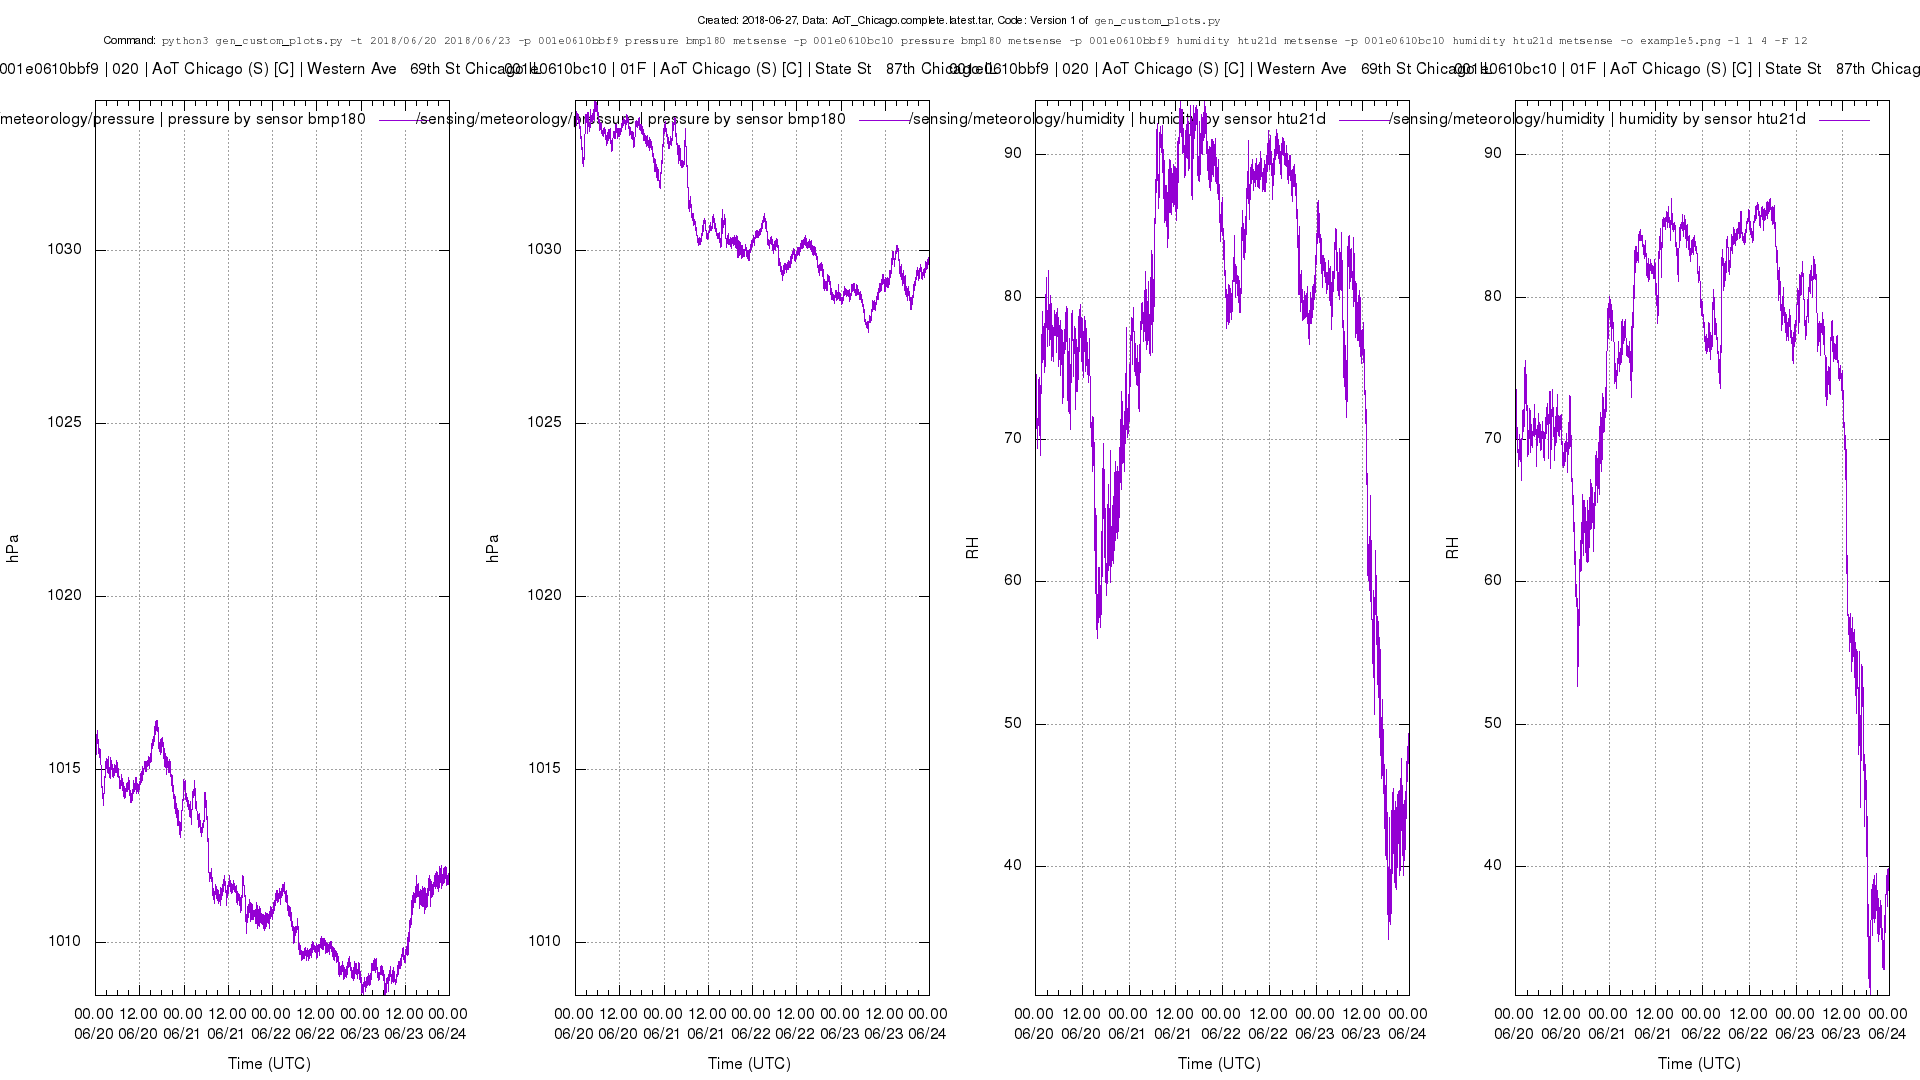
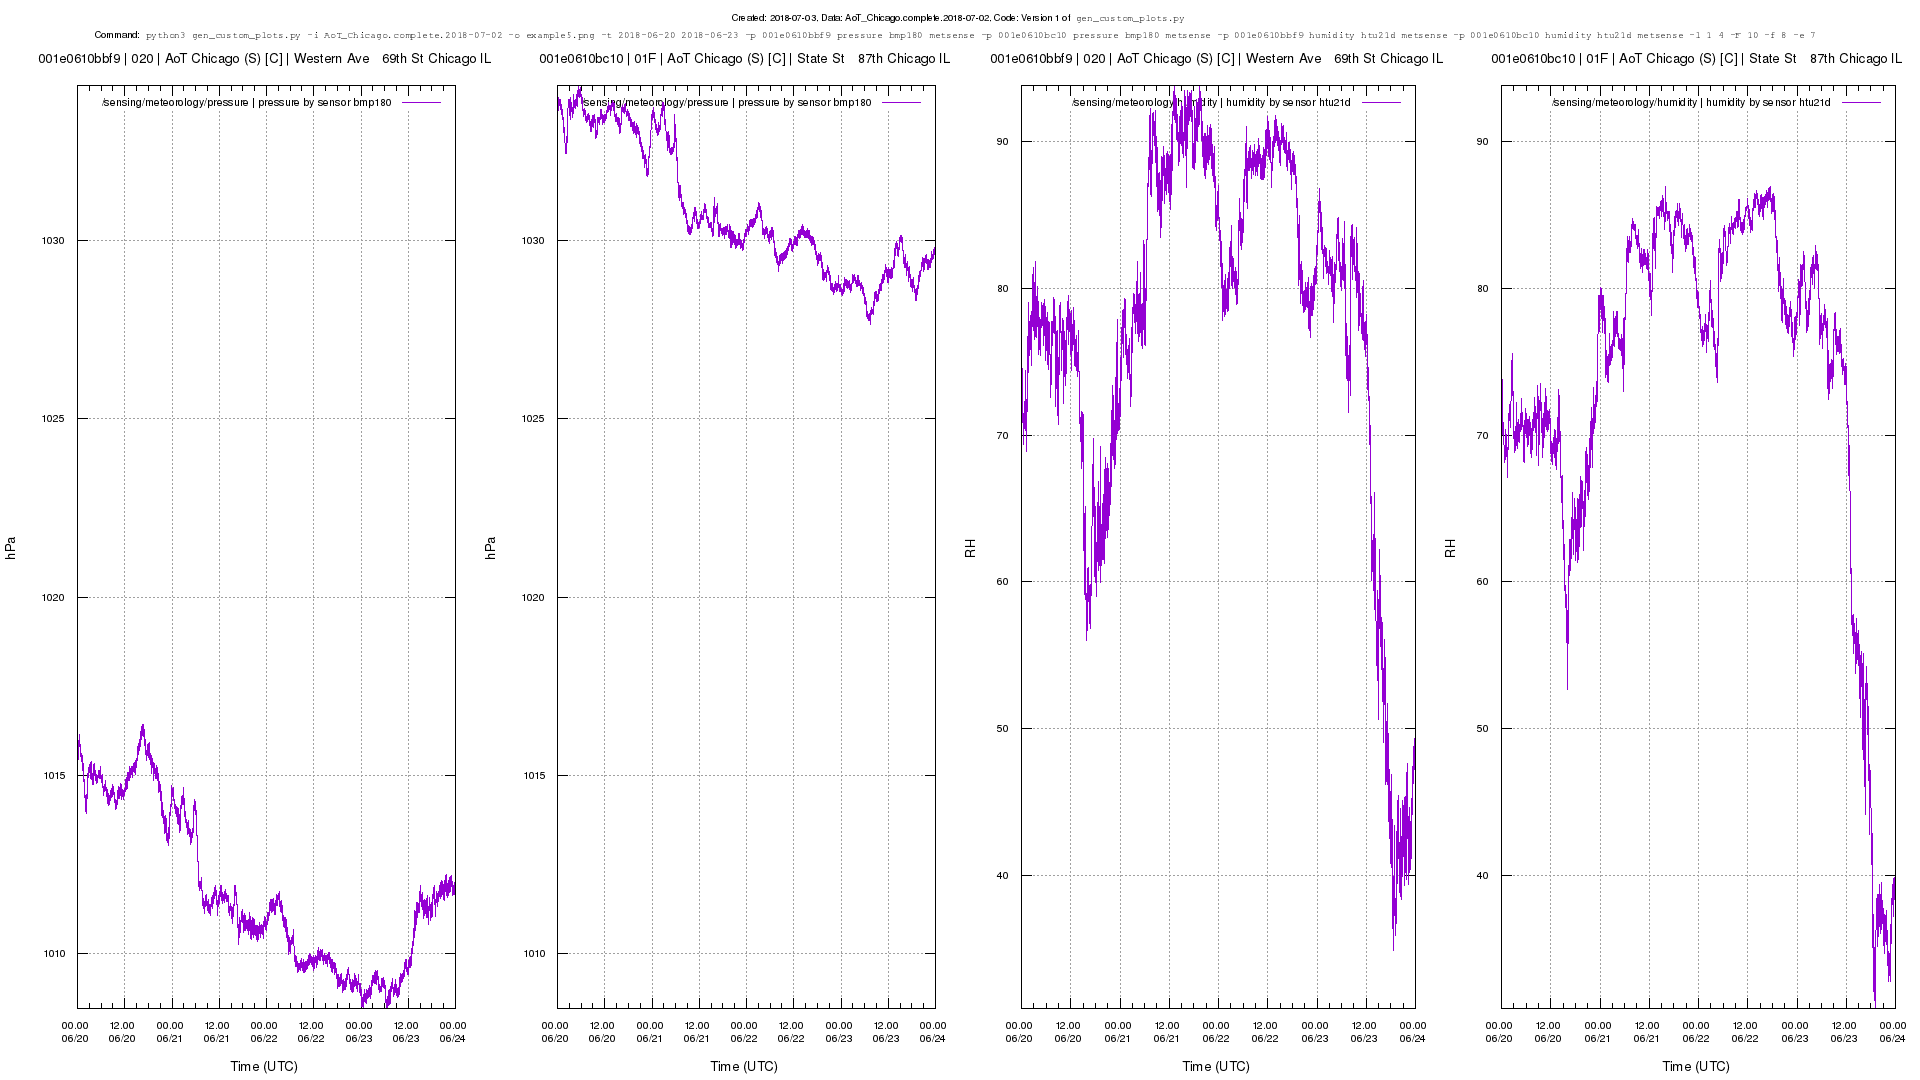
added examples to README

diff --git a/plot-data/README.md b/plot-data/README.md
@@ -7,16 +7,34 @@ This tool generates plots based on command line input. Given a directory with da
 ## Requirements
 
 This tool depends on **python3**, **numpy** and **pandas** packages for python3, as well as **gnuplot**. Please make sure they are installed in the system where they are intended to be used.  
-The bash shell scripts this tool uses require a Linux or Mac OS X environment to run.
+The bash shell scripts this tool uses require a Linux or Mac OS X environment to run.  
+Plotting also requires that the file `data.csv` has the following columns:  
+	* `timestamp`
+	* `node_id`
+	* `subsystem`
+	* `sensor`
+	* `paramater`
+	* One of:
+		* `value_hrf`
+		* `value_hrf_average`
+		* `value_hrf_moving_average`
 
 ## How to Use
 
 To retrieve data, go to https://github.com/waggle-sensor/waggle/tree/master/data, download your desired data set, and follow the instructions to decompress the data.  
+To get the scripts, clone this repository from `https://github.com/waggle-sensor/data-tools.git`.  
+In order to run the scripts, use the command line to navigate to the `plot-data` directory within the repository.  
 To generate a simple plot run `python3 gen_custom_plots.py -i data_directory_path -t start_date end_date -p node_id parameter sensor subsystem`  
 `data_directory_path` is the path to the directory created when untaring the archive, or any other directory containing the required files, listed above.  
 `start_date` and `end_date` are dates in the format YYYY-MM-DD. Data is plotted from 00:00:00 on the start date to 23:59:59 on the end date.  
 `node_id` is the id of the node you want to plot data from. A list of nodes can be found in the `nodes.csv` file included with the datasets.
-`parameter`, `sensor` and `subsystem` specify exactly what data you want from the node. A list of these can be found in the `sensors.csv` file included with the datasets.
+`parameter`, `sensor` and `subsystem` specify exactly what data you want from the node. A list of these can be found in the `sensors.csv` file included with the datasets.  
+
+
+For example: `python3 gen_custom_plots.py -i AoT_Chicago.complete.2018-07-02/ -t 2018-06-23 2018-06-23 -p 001e0610ba46 temperature bmp180 metsense`  
+This command would generate a plot containing temperature data from the sensor bmp180 in the subsystem metsense for the node 001e0610ba46 from 00:00:00 June 23, 2018 to 23:59:59 June 23, 2018 using the AoT Chicago complete dataset from July 2, 2018.
+The generated plot looks like this:
+<img src="https://raw.githubusercontent.com/waggle-sensor/data-tools/master/plot-data/examples/example.png">
 
 ## Documentation
 
@@ -26,7 +44,7 @@ https://github.com/waggle-sensor/waggle/tree/master/data contains a list of data
 
 ### Plot Generation
 
-`gen_custom_plots.py` extracts the specified data from the files created by `fileMaker.sh` and combines the data into plottable datasets. Then the data is plotted as specified by command line arguments. The data extracted each time the tool is run is stored in daily slices so that it does not need to be extracted again, because extracting the data is very time consuming. If data is already extracted for a given plot, the files will just be combined into a final plottable dataset. If only some of the specified data is already extracted, the rest of the data will be extracted, skipping over the data that already exists.
+`gen_custom_plots.py` extracts the specified data from `data.csv` in the data directory and combines the data into plottable datasets. Then the data is plotted as specified by command line arguments. The data extracted each time the tool is run is stored in daily slices in a folder called `tmp` in the data directory so that it does not need to be extracted again, because extracting the data is very time consuming. If data is already extracted for a given plot, the files will just be combined into a final plottable dataset. If only some of the specified data is already extracted, the rest of the data will be extracted, skipping over the data that already exists.
 
 #### Command Line Arguments
 
@@ -129,13 +147,27 @@ optional arguments:
   -h, --help            show this help message and exit
 ```
 
+#### Examples
+
 ##### Simple Plots
 
-Example 1: Plot temperature data from sensor bmp180, subsystem metsense, node 001e0610ba46, from 2018-06-20 to 2018-06-23. 
-`python3 gen_custom_plots.py -t 2018/06/20 2018/06/23 -p 001e0610ba46 temperature bmp180 metsense`  
+###### Example 1
+Plot temperature data from sensor bmp180, subsystem metsense, node 001e0610ba46, from 2018-06-20 to 2018-06-23 using data from the AoT Chicago complete dataset.  
+`python3 gen_custom_plots.py -i AoT_Chicago.complete.2018-07-02 -t 2018-06-20 2018-06-23 -p 001e0610ba46 temperature bmp180 metsense`
 Will generate terminal output:  
 ```
 Extracting data for all dates in time frame...
+Extracting data for 2018/06/17...
+Extracting data for node 001e0610ba46 on 2018/06/17...
+Extracting temperature data from node 001e0610ba46...
+[WARNING] No temperature data from sensor bmp180 in subsystem metsense for node 001e0610ba46 on 2018/06/17 exists
+Extracting data for 2018/06/18...
+Extracting data for node 001e0610ba46 on 2018/06/18...
+Extracting temperature data from node 001e0610ba46...
+Extracting data for 2018/06/19...
+Extracting data for node 001e0610ba46 on 2018/06/19...
+Extracting temperature data from node 001e0610ba46...
+Extracting data for 2018/06/20...
 Extracting data for node 001e0610ba46 on 2018/06/20...
 Extracting temperature data from node 001e0610ba46...
 Extracting data for 2018/06/21...
@@ -144,44 +176,87 @@ Extracting temperature data from node 001e0610ba46...
 Extracting data for 2018/06/22...
 Extracting data for node 001e0610ba46 on 2018/06/22...
 Extracting temperature data from node 001e0610ba46...
+Extracting data for 2018/06/23...
 Extracting data for node 001e0610ba46 on 2018/06/23...
 Extracting temperature data from node 001e0610ba46...
 Combining data for 001e0610ba46 temperature bmp180 metsense
 Plotting data to ./plots/output.png
 ```  
+The warning that no data exists for a certain date lets you know why the plot might not have certain data points.
 And generate the following plot:  
-![output.png](https://github.com/waggle-sensor/summer2018/tree/master/dawnkaski/custom_plots/examples/output.png)  
-<img src="https://raw.githubusercontent.com/waggle-sensor/summer2018/master/dawnkaski/custom_plots/examples/output.png?token=AUW0UvvYalBBgwjTQBNj6FSa1vF0Fpnmks5bPT9BwA%3D%3D">
+<img src="https://raw.githubusercontent.com/waggle-sensor/data-tools/master/plot-data/examples/output.png">
 
-Example 2: Plot temperature data from sensor bmp180, subsystem metsense, node 001e0610ba46 and node 001e0610ba8f, from 2018-06-20 to 2018-06-23 to example2.png.
+######Example 2
+Plot temperature data from sensor bmp180, subsystem metsense, node 001e0610ba46 and the ontology /sensing/meteorology/temperature for node 001e0610ba8f, from 2018-06-20 to 2018-06-23 to example2.png using data from from the AoT Chicago complete dataset.
 The command to generate this plot:  
-`python3 gen_custom_plots.py -t 2018/06/20 2018/06/23 -p 001e0610ba46 temperature bmp180 metsense -p 001e0610ba8f temperature bmp180 metsense -o example2.png`  
+`python3 gen_custom_plots.py -i AoT_Chicago.complete.2018-07-02 -o example2.png -t 2018-06-20 2018-06-23 -p 001e0610ba46 temperature bmp180 metsense -n 001e0610ba8f /sensing/meteorology/temperature -e 10`  
 Will generate terminal output:  
 ```
-Extracting data for node 001e0610ba8f on 2018/06/20...
+Extracting temperature data from node 001e0610ba46...
+[WARNING] No temperature data from sensor bmp180 in subsystem metsense for node 001e0610ba46 on 2018/06/17 exists
 Extracting temperature data from node 001e0610ba8f...
-Extracting data for node 001e0610ba8f on 2018/06/21...
+[WARNING] No temperature data from sensor bmp180 in subsystem metsense for node 001e0610ba8f on 2018/06/17 exists
 Extracting temperature data from node 001e0610ba8f...
-Extracting data for node 001e0610ba8f on 2018/06/22...
+[WARNING] No temperature data from sensor htu21d in subsystem metsense for node 001e0610ba8f on 2018/06/17 exists
 Extracting temperature data from node 001e0610ba8f...
-Extracting data for node 001e0610ba8f on 2018/06/23...
+[WARNING] No temperature data from sensor pr103j2 in subsystem metsense for node 001e0610ba8f on 2018/06/17 exists
+Extracting temperature data from node 001e0610ba8f...
+[WARNING] No temperature data from sensor tmp112 in subsystem metsense for node 001e0610ba8f on 2018/06/17 exists
+Extracting temperature data from node 001e0610ba8f...
+[WARNING] No temperature data from sensor tsys01 in subsystem metsense for node 001e0610ba8f on 2018/06/17 exists
+Extracting temperature data from node 001e0610ba8f...
+Extracting temperature data from node 001e0610ba8f...
+Extracting temperature data from node 001e0610ba8f...
+Extracting temperature data from node 001e0610ba8f...
+Extracting temperature data from node 001e0610ba8f...
+Extracting temperature data from node 001e0610ba8f...
+Extracting temperature data from node 001e0610ba8f...
+Extracting temperature data from node 001e0610ba8f...
+Extracting temperature data from node 001e0610ba8f...
+Extracting temperature data from node 001e0610ba8f...
+Extracting temperature data from node 001e0610ba8f...
+Extracting temperature data from node 001e0610ba8f...
+Extracting temperature data from node 001e0610ba8f...
+Extracting temperature data from node 001e0610ba8f...
+Extracting temperature data from node 001e0610ba8f...
+Extracting temperature data from node 001e0610ba8f...
+Extracting temperature data from node 001e0610ba8f...
+Extracting temperature data from node 001e0610ba8f...
+Extracting temperature data from node 001e0610ba8f...
+Extracting temperature data from node 001e0610ba8f...
+Extracting temperature data from node 001e0610ba8f...
+Extracting temperature data from node 001e0610ba8f...
+Extracting temperature data from node 001e0610ba8f...
+Extracting temperature data from node 001e0610ba8f...
+Extracting temperature data from node 001e0610ba8f...
+Extracting temperature data from node 001e0610ba8f...
+Extracting temperature data from node 001e0610ba8f...
+Extracting temperature data from node 001e0610ba8f...
+Extracting temperature data from node 001e0610ba8f...
 Extracting temperature data from node 001e0610ba8f...
 Combining data for 001e0610ba46 temperature bmp180 metsense
 Combining data for 001e0610ba8f temperature bmp180 metsense
+Combining data for 001e0610ba8f temperature htu21d metsense
+Combining data for 001e0610ba8f temperature pr103j2 metsense
+Combining data for 001e0610ba8f temperature tmp112 metsense
+Combining data for 001e0610ba8f temperature tsys01 metsense
 Plotting data to ./plots/example2.png
 ```
+The `-e 10` option was need because otherwise the text for the provenance was too long for the image.  
 The data for node 001e0610ba46 is not extracted because it was stored from when the plot in Example 1 was generated.  
+
+
 And generate the following plot:  
-![example2.png](https://github.com/waggle-sensor/summer2018/tree/master/dawnkaski/custom_plots/examples/example2.png)  
-<img src="https://raw.githubusercontent.com/waggle-sensor/summer2018/master/dawnkaski/custom_plots/examples/example2.png?token=AUW0Ur0XhNAzABN0xcQKDru_vkjuiw14ks5bPUBNwA%3D%3D">
+<img src="https://raw.githubusercontent.com/waggle-sensor/data-tools/master/plot-data/examples/example2.png">
 
 ##### Using Plot Settings Arguments
 
-Example 3: Plot pressure from sensor bmp180 subsystem metsense for node 001e0610bbf9 and 001e0610bc10 and humidity for sensor htu21d subsystem metsense for node 001e0610bbf9 and 001e0610bc10 from 2018-06-20 to 2018-06-23 to example3.png overlaid in one plot.  
+######Example 3
+Plot pressure from sensor bmp180 subsystem metsense for node 001e0610bbf9 and 001e0610bc10 and humidity for sensor htu21d subsystem metsense for node 001e0610bbf9 and 001e0610bc10 from 2018-06-20 to 2018-06-23 to example3.png overlaid in one plot.  
 The command to generate this plot:  
-`python3 gen_custom_plots.py -t 2018/06/20 2018/06/23 -p 001e0610bbf9 pressure bmp180 metsense -p 001e0610bc10 pressure bmp180 metsense -p 001e0610bbf9 humidity htu21d metsense -p  001e0610bc10 humidity htu21d metsense -o example3.png -v`  
+`python3 gen_custom_plots.py -i AoT_Chicago.complete.2018-07-02 -o example3.png -t 2018-06-20 2018-06-23 -p 001e0610bbf9 pressure bmp180 metsense -p 001e0610bc10 pressure bmp180 metsense -p 001e0610bbf9 humidity htu21d metsense -p  001e0610bc10 humidity htu21d metsense -v -e 8`  
 or  
-`python3 gen_custom_plots.py -t 2018/06/20 2018/06/23 -p 001e0610bbf9 pressure bmp180 metsense -p 001e0610bc10 pressure bmp180 metsense -p 001e0610bbf9 humidity htu21d metsense -p  001e0610bc10 humidity htu21d metsense -o example3.png`  
+`python3 gen_custom_plots.py -i AoT_Chicago.complete.2018-07-02 -o example3.png -t 2018-06-20 2018-06-23 -p 001e0610bbf9 pressure bmp180 metsense -p 001e0610bc10 pressure bmp180 metsense -p 001e0610bbf9 humidity htu21d metsense -p  001e0610bc10 humidity htu21d metsense -e 8`  
 Either command will work because the tool defaults to overlaying the data.  
 Will generate terminal output:  
 ```
@@ -203,38 +278,28 @@ Extracting humidity data from node 001e0610bbf9...
 Extracting data for node 001e0610bc10 on 2018/06/22...
 Extracting pressure data from node 001e0610bc10...
 Extracting humidity data from node 001e0610bc10...
+Extracting data for node 001e0610bbf9 on 2018/06/23...
 Extracting pressure data from node 001e0610bbf9...
 Extracting humidity data from node 001e0610bbf9...
+Extracting data for node 001e0610bc10 on 2018/06/23...
 Extracting pressure data from node 001e0610bc10...
 Extracting humidity data from node 001e0610bc10...
 Combining data for 001e0610bbf9 pressure bmp180 metsense
 Combining data for 001e0610bbf9 humidity htu21d metsense
 Combining data for 001e0610bc10 pressure bmp180 metsense
 Combining data for 001e0610bc10 humidity htu21d metsense
-Plotting data to ./plots/output.png
+IT WORKS
+Plotting data to ./plots/example3.png
 ```
+Again, the -e option is used so that the command fits in the image.  
 And generate the following plot:  
-![example3.png](https://github.com/waggle-sensor/summer2018/tree/master/dawnkaski/custom_plots/examples/example3.png)  
-<img src="https://raw.githubusercontent.com/waggle-sensor/summer2018/master/dawnkaski/custom_plots/examples/example3.png?token=AUW0UvJfT41l8Vs6f3DyZDuKjgq6aS8Oks5bPUYUwA%3D%3D">
+<img src="https://raw.githubusercontent.com/waggle-sensor/data-tools/master/plot-data/examples/example3.png">
 
-The command for this plot does not quite fit on the plot, so we can change the size of the plot title to make it fit using the `-F` option:  
-`python3 gen_custom_plots.py -t 2018/06/20 2018/06/23 -p 001e0610bbf9 pressure bmp180 metsense -p 001e0610bc10 pressure bmp180 metsense -p 001e0610bbf9 humidity htu21d metsense -p  001e0610bc10 humidity htu21d metsense -o example3-smalltitle.png -v -F 12`  
-Will generate terminal output:  
-```
-Combining data for 001e0610bbf9 pressure bmp180 metsense
-Combining data for 001e0610bbf9 humidity htu21d metsense
-Combining data for 001e0610bc10 pressure bmp180 metsense
-Combining data for 001e0610bc10 humidity htu21d metsense
-Plotting data to ./plots/example3-smalltitle.png
-```
-And generate the following plot:  
-![example3-smalltitle.png](https://github.com/waggle-sensor/summer2018/tree/master/dawnkaski/custom_plots/examples/example3-smalltitle.png)
-<img src="https://raw.githubusercontent.com/waggle-sensor/summer2018/master/dawnkaski/custom_plots/examples/example3-smalltitle.png?token=AUW0Urm9ZYgR16hVwrUOOQpAwx1RCW6nks5bPUZgwA%3D%3D">
 
 Example 4: Plot pressure from sensor bmp180 subsystem metsense for node 001e0610bbf9 and 001e0610bc10 and humidity for sensor htu21d subsystem metsense for node 001e0610bbf9 and 001e0610bc10 from 2018-06-20 to 2018-06-23 to example3.png laid out in a 2 by 2 grid.  
 The command to generate this plot:  
-`python3 gen_custom_plots.py -t 2018/06/20 2018/06/23 -p 001e0610bbf9 pressure bmp180 metsense -p 001e0610bc10 pressure bmp180 metsense -p 001e0610bbf9 humidity htu21d metsense -p  001e0610bc10 humidity htu21d metsense -o example4.png -l 2 2 -F 12`  
-The `-F` option is used here again because the command is similar in length to example 3, so we want it to fit the first time.
+`python3 gen_custom_plots.py -i AoT_Chicago.complete.2018-07-02 -o example3.png -t 2018-06-20 2018-06-23 -p 001e0610bbf9 pressure bmp180 metsense -p 001e0610bc10 pressure bmp180 metsense -p 001e0610bbf9 humidity htu21d metsense -p  001e0610bc10 humidity htu21d metsense -o example4.png -l 2 2 -F 12 -e 8`  
+The `-F` option is used here to make the titles look nicer and not take up so much room to leave more space for the plots.  
 Will generate terminal output:  
 ```
 Combining data for 001e0610bbf9 pressure bmp180 metsense
@@ -244,13 +309,12 @@ Combining data for 001e0610bc10 humidity htu21d metsense
 Plotting data to ./plots/example4.png
 ```
 And generate the following plot:  
-![example4.png](https://github.com/waggle-sensor/summer2018/tree/master/dawnkaski/custom_plots/examples/example4.png)  
-<img src="https://raw.githubusercontent.com/waggle-sensor/summer2018/master/dawnkaski/custom_plots/examples/example4.png?token=AUW0UkmJmuJjMsSWv0xVmxiUMShsVQvcks5bPUgxwA%3D%3D">
+<img src="https://raw.githubusercontent.com/waggle-sensor/data-tools/master/plot-data/examples/example4.png">
 
 Example 5: Plot pressure from sensor bmp180 subsystem metsense for node 001e0610bbf9 and 001e0610bc10 and humidity for sensor htu21d subsystem metsense for node 001e0610bbf9 and 001e0610bc10 from 2018-06-20 to 2018-06-23 to example3.png laid out in a 1 by 4 grid.  
 The command to generate this plot:  
-`python3 gen_custom_plots.py -t 2018/06/20 2018/06/23 -p 001e0610bbf9 pressure bmp180 metsense -p 001e0610bc10 pressure bmp180 metsense -p 001e0610bbf9 humidity htu21d metsense -p  001e0610bc10 humidity htu21d metsense -o example5.png -l 1 4 -F 12`  
-
+`python3 gen_custom_plots.py -i AoT_Chicago.complete.2018-07-02 -o example3.png -t 2018-06-20 2018-06-23 -p 001e0610bbf9 pressure bmp180 metsense -p 001e0610bc10 pressure bmp180 metsense -p 001e0610bbf9 humidity htu21d metsense -p  001e0610bc10 humidity htu21d metsense -o example5-smalltext.png -l 1 4 -F 10 -f 8 -e 7`  
+Here, the `-F` and `-f` options are used to keep the plot title from overlapping and to keep the plot keys from going outside their plots.  
 Will generate terminal output:  
 ```
 Combining data for 001e0610bbf9 pressure bmp180 metsense
@@ -260,25 +324,12 @@ Combining data for 001e0610bc10 humidity htu21d metsense
 Plotting data to ./plots/example5.png
 ```
 And generate the following plot:  
-![example5.png](https://github.com/waggle-sensor/summer2018/tree/master/dawnkaski/custom_plots/examples/example5.png) 
-<img src="https://raw.githubusercontent.com/waggle-sensor/summer2018/master/dawnkaski/custom_plots/examples/example5.png?token=AUW0Un4aWKgWrrqJvNifnvyjCEbYXvF9ks5bPUsQwA%3D%3D"> 
-
-Both the titles of the plots and the text within the plots are too large, so we need to decrease the font size of both using `-F` for the titles, and `-f` for the plot text:  
-`python3 gen_custom_plots.py -t 2018/06/20 2018/06/23 -p 001e0610bbf9 pressure bmp180 metsense -p 001e0610bc10 pressure bmp180 metsense -p 001e0610bbf9 humidity htu21d metsense -p  001e0610bc10 humidity htu21d metsense -o example5-smalltext.png -l 1 4 -F 10 -f 8`  
-Will generate terminal output:  
-```
-Combining data for 001e0610bbf9 pressure bmp180 metsense
-Combining data for 001e0610bbf9 humidity htu21d metsense
-Combining data for 001e0610bc10 pressure bmp180 metsense
-Combining data for 001e0610bc10 humidity htu21d metsense
-Plotting data to ./plots/example5-smalltext.png
-```
-And generate the following plot:  
-![example5-smalltext.png](https://github.com/waggle-sensor/summer2018/tree/master/dawnkaski/custom_plots/examples/example5-smalltext.png)  
-<img src="https://raw.githubusercontent.com/waggle-sensor/summer2018/master/dawnkaski/custom_plots/examples/example5-smalltext.png?token=AUW0UhNoqOKXigc0IxxHkVy76bcOtms2ks5bPUtWwA%3D%3D">  
+<img src="https://raw.githubusercontent.com/waggle-sensor/data-tools/master/plot-data/examples/example5.png">
 
 
-If you want to trim outlying data (greater than 3 standard deviations away from the mean) you can use the `-r` option.  
+When plotting ontologies using `-n`, each ontology will be plotted in 1 plot. So if you wanted to plot 3 things with `-p` and 1 ontology in a 2 by 2 layout, there would be 3 plots containing one dataset and one containing all the data for the ontology.  
+
+If you want to trim outlying data (greater than 3 or -3 standard deviations away from the mean) you can use the `-r` option.  
 If you want to plot data using a log scale, you can use the `-s` option.
 
 
